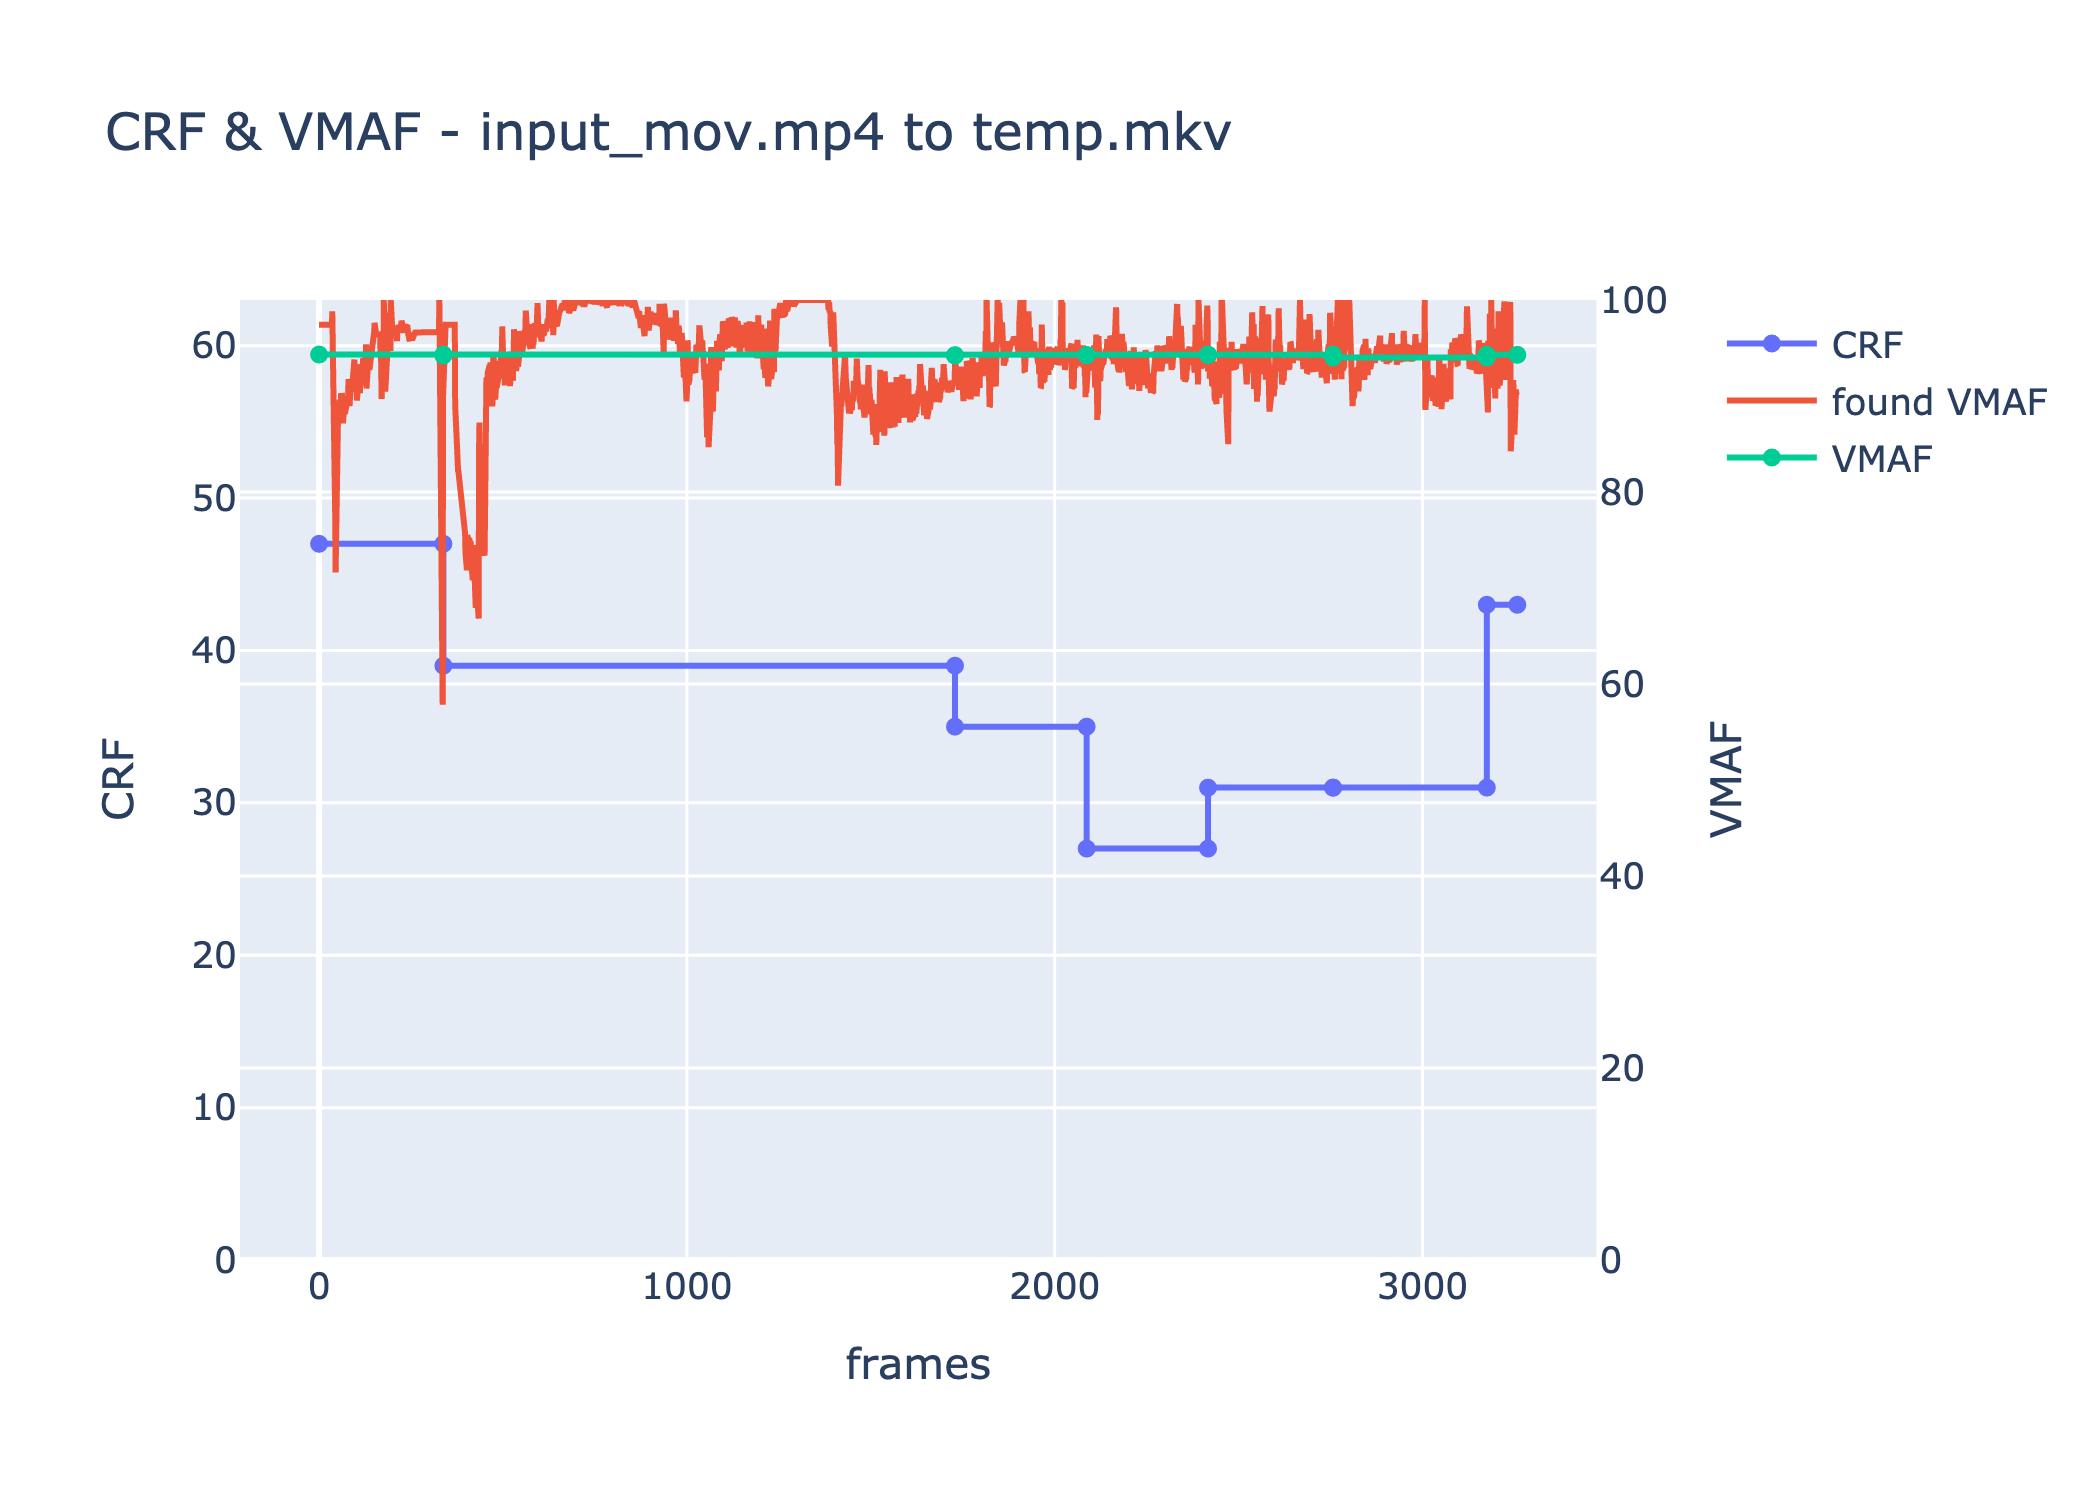
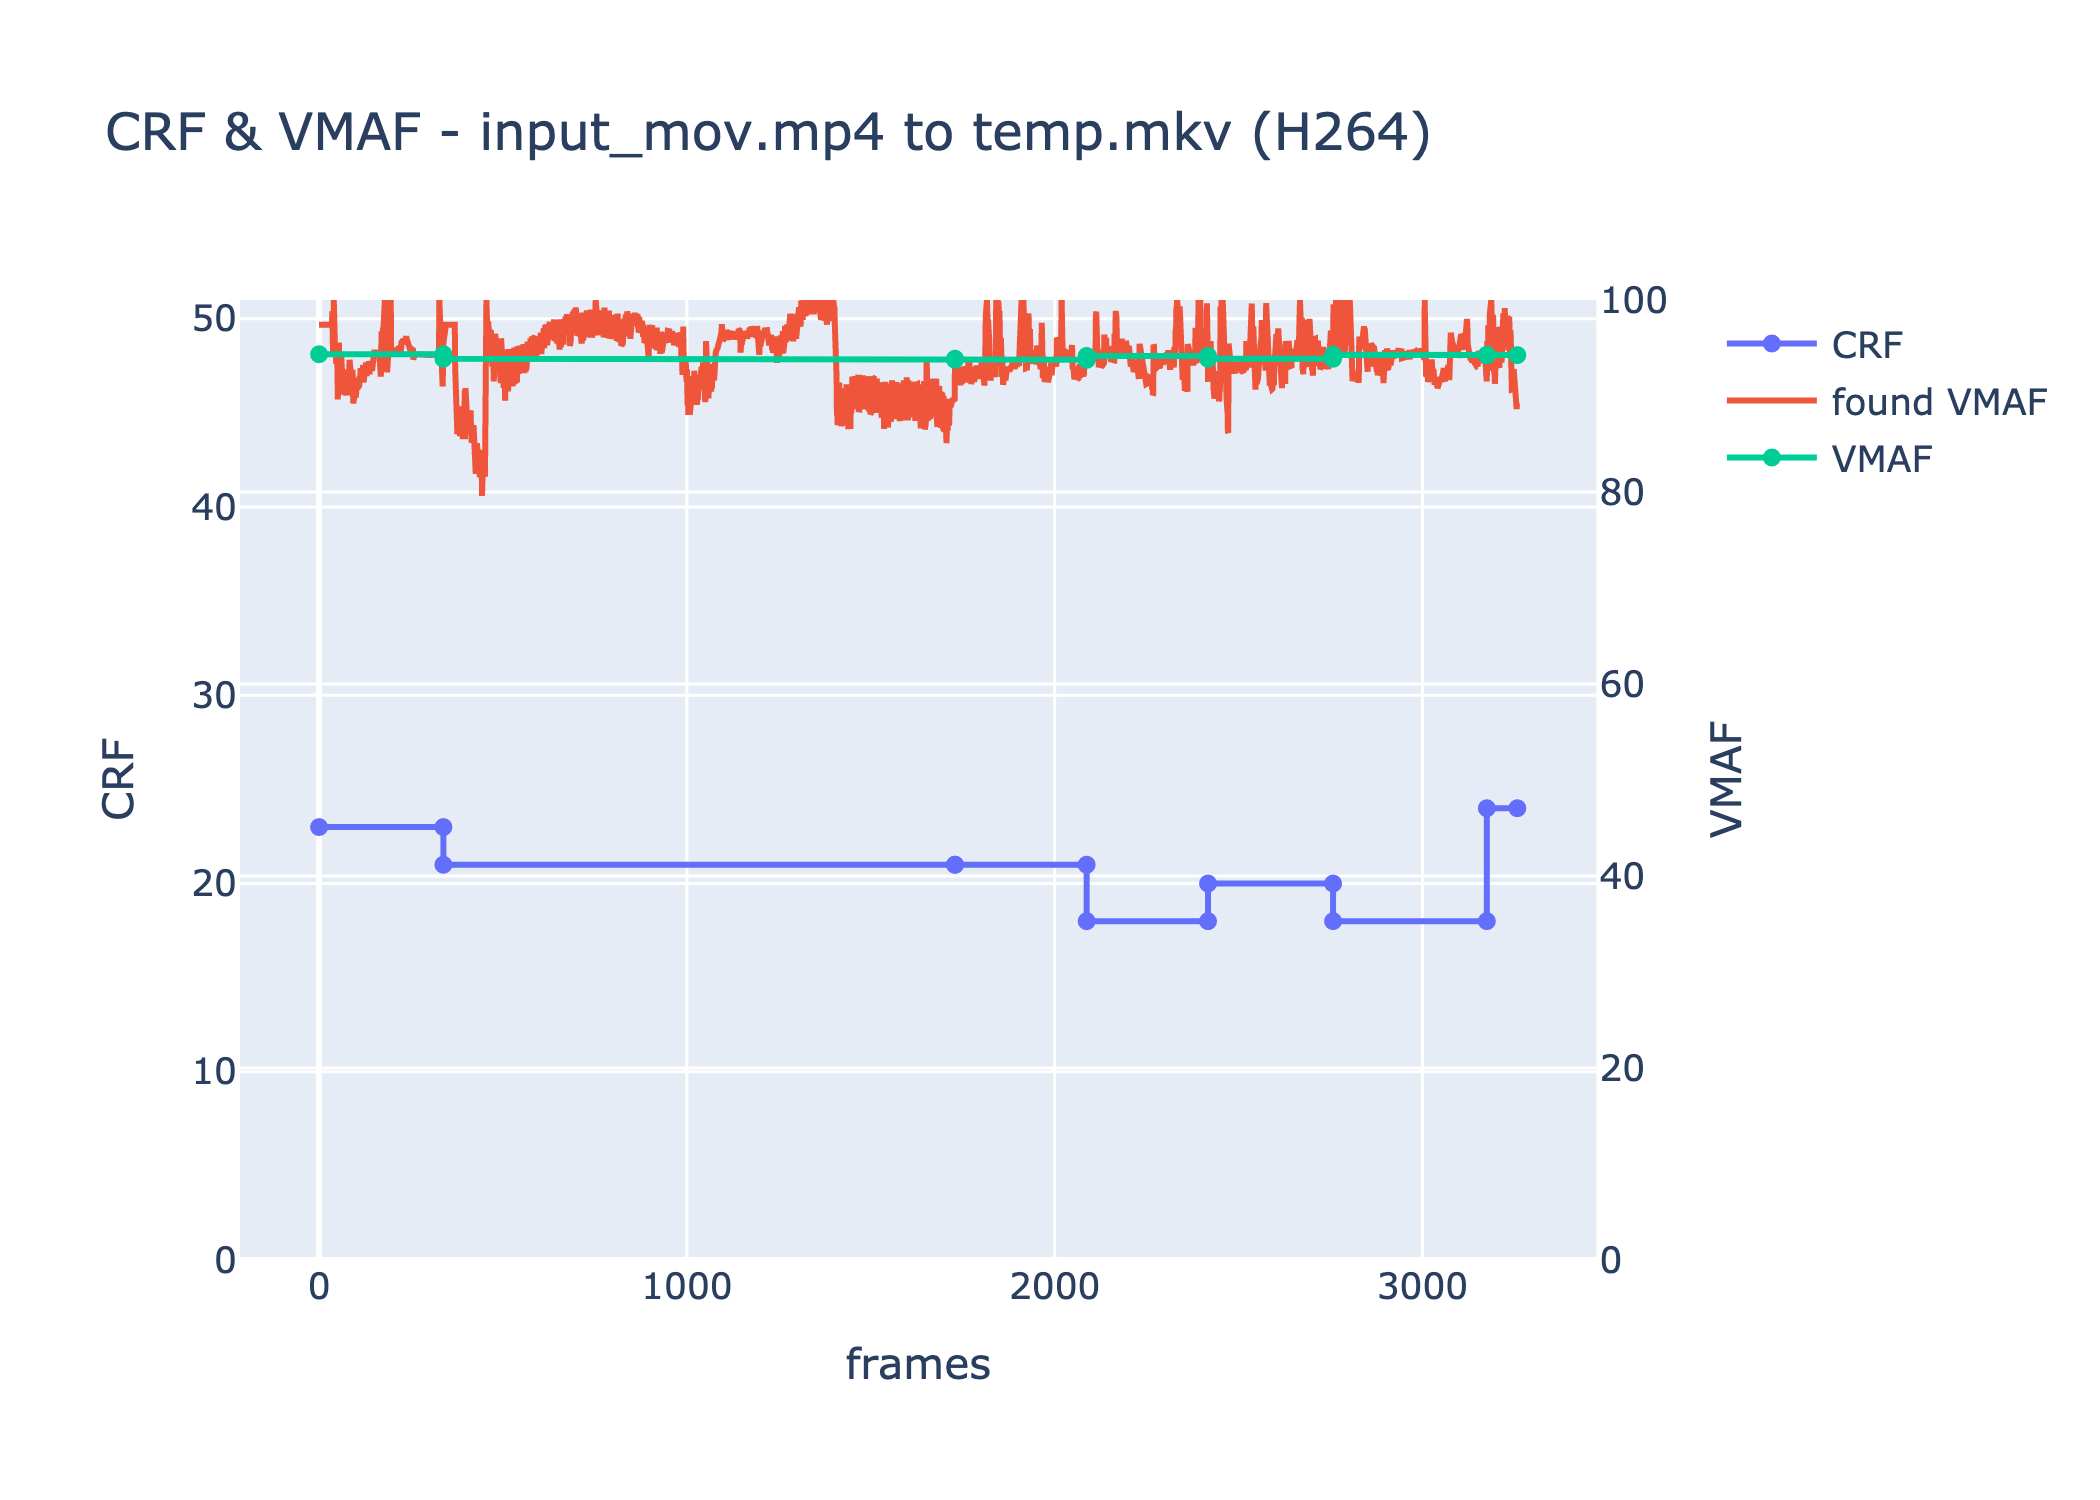
added ability to pause during the render

diff --git a/src/v2-target-videoCRF-minimal.py b/src/v2-target-videoCRF-minimal.py
@@ -6,7 +6,8 @@ import graph_generate
 from rich.progress import Progress, TimeElapsedColumn
 from rich import print
 import concurrent.futures
-# import os
+import os
+import time
 
 progress = Progress(
     *Progress.get_default_columns(),
@@ -77,7 +78,7 @@ def compressing_video(
     with graph_generate.LinegraphImage(
         "video_graph",
         "png",
-        f"CRF & {heuristic.NAME} - {full_input_filename} to {full_output_filename}",
+        f"CRF & {heuristic.NAME} - {full_input_filename} to {full_output_filename} ({codec.NAME})",
         "frames",
     ) as graph_instance:
         graph_instance.add_linegraph(
@@ -114,16 +115,14 @@ def compressing_video(
     for x in range(len(video_scenes)):
         print(_temporary_file_names(x))
         print(ffmpeg.get_video_metadata(_temporary_file_names(x), False))
-
-    # for x in range(len(video_scenes)):
-    #     os.remove(_temporary_file_names(x))
+        os.remove(_temporary_file_names(x))
 
     if ffmpeg.get_video_metadata(full_input_filename).contains_audio:
         ...
 
-    # ffmpeg.visual_comparison_of_video_with_blend_filter(
-    #     full_input_filename, full_output_filename, "ffmpeg", "visual_comparison.mp4"
-    # )
+    ffmpeg.visual_comparison_of_video_with_blend_filter(
+        full_input_filename, full_output_filename, "ffmpeg", "visual_comparison.mp4"
+    )
 
     print(ffmpeg.get_video_metadata(full_input_filename, False))
     print(ffmpeg.get_video_metadata(full_output_filename, False))
@@ -163,6 +162,9 @@ def _compress_video_section(
         while (
             current_crf := (top_crf_value + bottom_crf_value) // 2
         ) not in all_heuristic_crf_values.keys():
+            while os.path.isfile("STOP.txt"):  # Will pause execution
+                time.sleep(1)
+
             video_command.run_ffmpeg_command(current_crf)
 
             current_heuristic = heuristic.summary_of_overall_video(
@@ -211,10 +213,10 @@ compressing_video(
     # "input-tiny.mp4",
     # "big.mp4",
     "temp.mkv",
-    # ffmpeg.H264(tune="animation", preset="veryfast"),
-    ffmpeg.SVTAV1(preset=6),
+    ffmpeg.H264(tune="animation", preset="veryfast"),
+    # ffmpeg.SVTAV1(preset=6),
     ffmpeg_heuristics.VMAF(94),
     # scene_detection_threshold=40,
     minimum_scene_length_seconds=0.1,
-    multithreading_threads=2,
+    multithreading_threads=5,
 )

diff --git a/src/ffmpeg_heuristics.py b/src/ffmpeg_heuristics.py
@@ -47,15 +47,14 @@ class VMAF:
     ) -> float:
         print("Running FFMPEG COMMAND for vmaf")
 
-        frame_rate = ffmpeg.get_frame_rate(encoded_video_path)
+        # frame_rate = ffmpeg.get_frame_rate(encoded_video_path)
+        frame_rate = ffmpeg.get_video_metadata(encoded_video_path).frame_rate
         # ffmpeg_command = [ffmpeg_path]
 
         ffmpeg_command: list[str] = []
 
         if source_start_end_frame is not None:
-            total_frames = ffmpeg.get_video_metadata(
-                "ffprobe", source_video_path
-            ).total_frames
+            total_frames = ffmpeg.get_video_metadata(source_video_path).total_frames
 
             if source_start_end_frame[1] == total_frames:
                 source_start_end_frame = (source_start_end_frame[0], None)
@@ -130,14 +129,12 @@ class VMAF:
     ) -> list[float]:
         print("Running FFMPEG-throughout COMMAND for vmaf")
         # ffmpeg_command: list[str] = [ffmpeg_path]
-        frame_rate = ffmpeg.get_frame_rate(encoded_video_path)
+        frame_rate = ffmpeg.get_video_metadata(encoded_video_path).frame_rate
 
         ffmpeg_command: list[str] = []
 
         if source_start_end_frame is not None:
-            total_frames = ffmpeg.get_video_metadata(
-                "ffprobe", source_video_path
-            ).total_frames
+            total_frames = ffmpeg.get_video_metadata(source_video_path).total_frames
 
             if source_start_end_frame[1] == total_frames:
                 source_start_end_frame = (source_start_end_frame[0], None)

diff --git a/src/ffmpeg.py b/src/ffmpeg.py
@@ -41,6 +41,7 @@ class SVTAV1:
 
     # const data
     ACCEPTED_CRF_RANGE: range = range(0, 63 + 1, 1)
+    NAME = "SVTAV1"
 
     def to_subprocess_command(self) -> list[str]:
         # return [f"-crf {}", f"-preset {preset}"] + [f"-svtav1-params film-grain={film-grain[0]}"]
@@ -61,6 +62,7 @@ class SVTAV1:
 @dataclass()
 class H264:
     ACCEPTED_CRF_RANGE: range = range(0, 51 + 1, 1)
+    NAME = "H264"
 
     preset: Literal[
         "ultrafast",
@@ -104,6 +106,8 @@ class H264:
 @dataclass()
 class H265:
     ACCEPTED_CRF_RANGE: range = range(0, 51 + 1, 1)
+    NAME = "H265"
+
     preset: Literal[
         "ultrafast",
         "superfast",
@@ -193,7 +197,8 @@ class FfmpegCommand:
         #     0  # TO PREVENT OVERLAP BETWEEN FRAMES --> prevent duplication
         # )
 
-        framerate: float = get_frame_rate(self.input_filename)
+        # framerate: float = get_frame_rate(self.input_filename)
+        framerate: float = get_video_metadata(self.input_filename).frame_rate
         # start_time_seconds = self.start_frame / framerate
         # end_time_seconds = self.end_frame / framerate
         command: list[str] = [  # ADD -r COMMANDD!!

diff --git a/src/target_video_quality.py b/src/target_video_quality.py
@@ -348,9 +348,7 @@ def _compress_video_part(
                 ),
                 encode_start_end_frame=(
                     0,
-                    ffmpeg.get_video_metadata(
-                        "ffprobe", tempoary_video_file_name
-                    ).total_frames,
+                    ffmpeg.get_video_metadata(tempoary_video_file_name).total_frames,
                 ),
                 ffmpeg_path=ffmpeg_path,
             )

diff --git a/src/scene_detection.py b/src/scene_detection.py
@@ -31,7 +31,7 @@ def find_scenes(
 
     _ = scene_manager.detect_scenes(video)
 
-    video_data = ffmpeg.get_video_metadata("ffprobe", video_path)
+    video_data = ffmpeg.get_video_metadata(video_path)
 
     scene_data = [
         SceneData(
